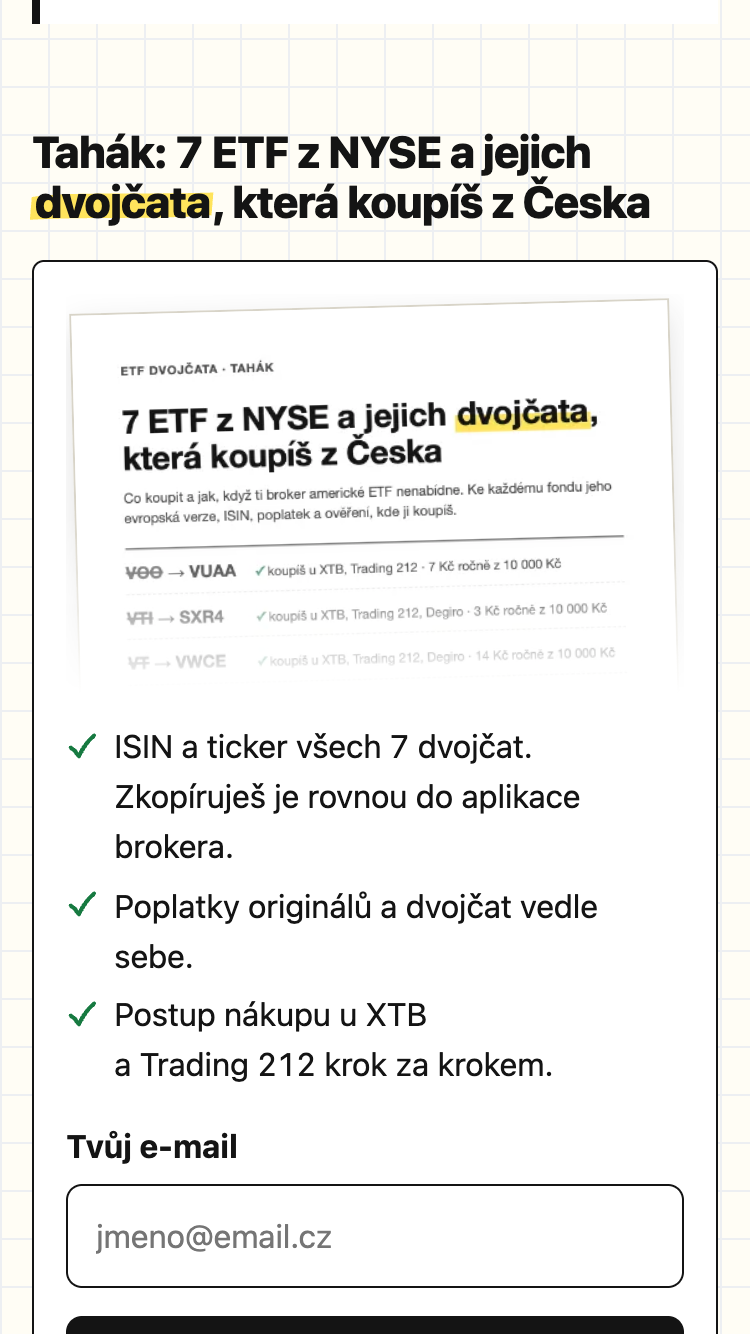
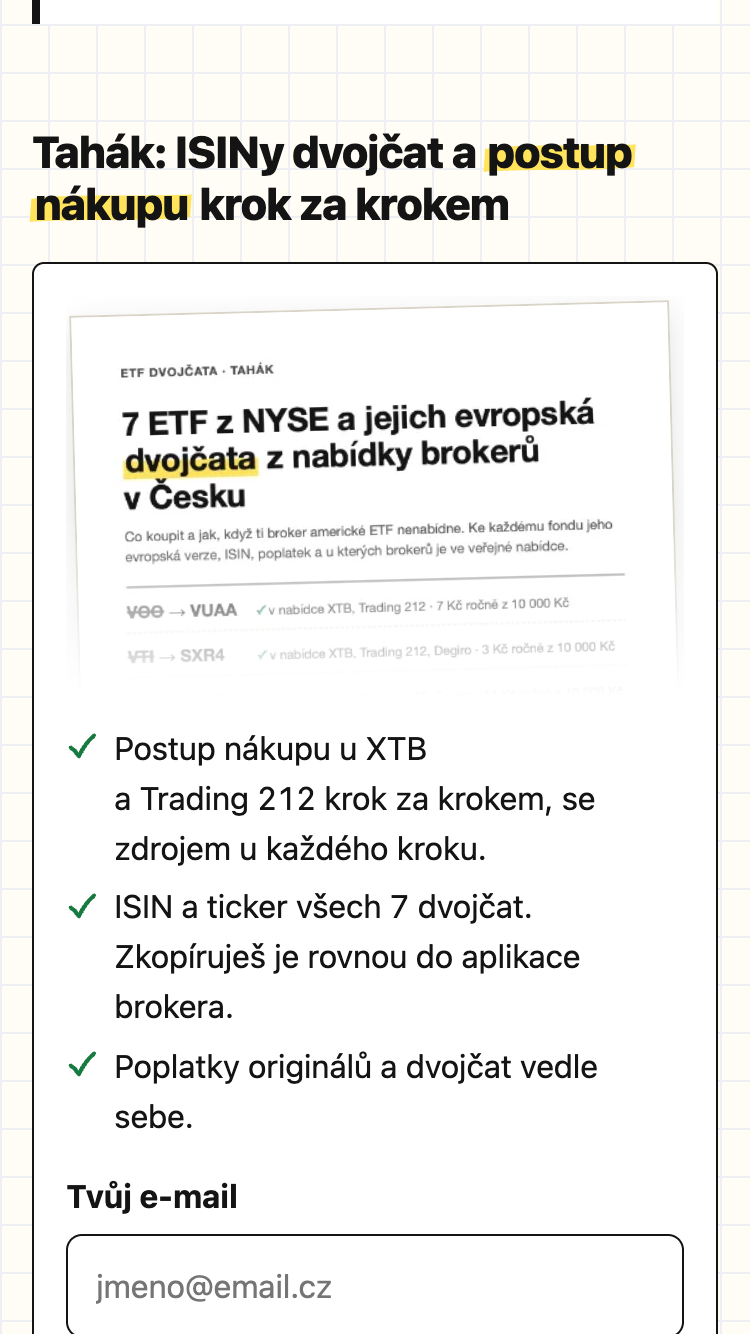
Závěrečná kontrola kola po nezávislé kontrole: testy, Lighthouse, snímky, deník
- přegenerované PDF, obrázky, reklamy (bezpečné zóny OK) a snímky
  „po“ a z WebKitu,
- data 183 bez chyb, stránka, PDF a CSP v pořádku, API 132, databáze
  80, Chrome 132, WebKit 81, JS 19 702 B,
- Lighthouse lokálně (mobil, tři verze úvodu): 100/100/100, SEO 66
  jen kvůli noindex, LCP 1,2 s, CLS 0, 88 KiB,
- docs/nasazeni.md: krok s aktualizací databáze (schema.sql
  a funnel.sql znovu), čísla v README a docs/testovani.md, deník.

diff --git a/ai-log/denik.md b/ai-log/denik.md
@@ -183,3 +183,28 @@ Doplňuje exporty konverzací (`/export`), které nezachytí celý průběh prá
   - Na prvních obrázcích reklam byla šipka a kroužek vedle velkého písma moc tenké. Pootočení lístku v reklamě B navíc zvedalo tickery vpravo nad jejich řádek. Obojí ukázal náhled, opraveno.
   - Bezpečné zóny Stories a Reels se nepodařilo ověřit v oficiální dokumentaci Meta. Návody třetích stran se rozcházejí (dole 250–670 px). AI zvolila 270/450 px a v README nechala kontrolu v náhledu Ads Manageru, místo aby čísla vydávala za ověřená.
   - Popis reklamy B chtěl „modrou propisku“, ale modrá ze vzhledu stránky vypadla. Obrázek drží styl stránky a popis je opravený.
+
+### 2026-10-11 – po nezávislé kontrole: správce údajů, slib taháku, reklama B, brokeři, README, měření
+
+- **Zadání pro AI:** opravit výtky ze dvou nezávislých AI kontrol (ChatGPT a nový chat Claude). Třetí kontrola (Gemini) byla vymyšlená a člověk ji zahodil. Body:
+  - správce údajů na demu,
+  - slib taháku,
+  - první obrazovka,
+  - reklama B,
+  - formulace o brokerech,
+  - README na 5 minut,
+  - UTM a trychtýř od data,
+  - poznámka o veřejném PDF,
+  - SQL pro migraci a pro smazání testovacích dat.
+- **Kontrola výstupu:**
+  - migrace testovaná na schématu z commitu 3ad8636 (stará databáze → nový `schema.sql` a `funnel.sql`),
+  - test hlídá, že text souhlasu na stránce sedí s `SOUHLAS` v `api/_lib.js`,
+  - bezpečné zóny reklam ověřil skript,
+  - odkazy v README a `docs/` ověřil skript,
+  - kontrola formulací grepem (žádné „koupíš u“, „Ověřili jsme“, „doplní správce“, Clientelo na stránce),
+  - výsledky: data 183, API 132, databáze 80, Chrome 132, WebKit 81, Lighthouse 100/100/100.
+- **Kde se AI spletla a jak se na to přišlo:**
+  - **Clientelo jako správce na živém demu, slib „všech 7 dvojčat“, schovaná dvojčata v reklamě B a „koupíš u …“** byly návrhy AI z dřívějších kol. Prošly všemi testy, protože testy hlídaly, že texty sedí s daty, ne že dávají smysl vůči sobě a vůči skutečnosti. Odhalily je až nezávislé kontroly.
+  - **Po změnách textu u brokerů selhal Chrome test**, protože na portu běžel starý lokální server se starými hlavičkami (CSP). Nový se kvůli obsazenému portu nespustil. Nebyla to chyba stránky; před spuštěním testů se teď vždy ukončí starý server.
+  - **Delší nabídka a text na lístku v reklamách nejdřív vytekly z bezpečné zóny.** Zachytila to kontrola ve skriptu, ne oko.
+  - **Navržené „7 nejznámějších“ v reklamě B AI nepoužila:** nejvyšší stupeň neumíme doložit (už dříve zapsáno v `b-zacatek.md`).

diff --git a/docs/testovani.md b/docs/testovani.md
@@ -6,9 +6,9 @@ Skripty a návod jsou ve [scripts/](../scripts/README.md). Všechny vracejí nen
 
 **Automaticky:**
 
-- **Funkce v `api/`** s podvrženou databází a DNS ([test-api.mjs](../scripts/test-api.mjs), 127 kontrol): každá kontrola z cesty kontaktu, MX při chybě a timeoutu DNS, události s ID návštěvy a bez něj, hlavičky, nepřítomnost e-mailu, klíče a IP v logu.
-- **SQL** na skutečném Postgresu v PGlite ([test-db.mjs](../scripts/test-db.mjs), 68 kontrol): práva anonymní role, RLS, limity, duplicity, události bez ID návštěvy, čas na minuty, trychtýř a projekt bez automatických práv Supabase.
-- **Chrome** (headless, 375 px, dotyk, [test-page.mjs](../scripts/test-page.mjs), 127 kontrol): otočení všech lístků, chybové hlášky, odeslání, panel, lišta dole, měření (každá událost dorazí, e-mail nikdy s ID návštěvy, události od odeslání bez něj), CSP, velikost JS do 20 kB, `prefers-reduced-motion`.
+- **Funkce v `api/`** s podvrženou databází a DNS ([test-api.mjs](../scripts/test-api.mjs), 132 kontrol): každá kontrola z cesty kontaktu, verze textu souhlasu, UTM u příchodu, MX při chybě a timeoutu DNS, události s ID návštěvy a bez něj, hlavičky, nepřítomnost e-mailu, klíče a IP v logu.
+- **SQL** na skutečném Postgresu v PGlite ([test-db.mjs](../scripts/test-db.mjs), 80 kontrol): práva anonymní role, RLS, limity, duplicity, verze souhlasu, události bez ID návštěvy, čas na minuty, trychtýř od data, migrace starší databáze, trychtýř a projekt bez automatických práv Supabase.
+- **Chrome** (headless, 375 px, dotyk, [test-page.mjs](../scripts/test-page.mjs), 132 kontrol): text souhlasu proti `SOUHLAS` v `api/_lib.js`, řádek o taháku na první obrazovce, otočení všech lístků, chybové hlášky, odeslání, panel, lišta dole, měření (každá událost dorazí, e-mail nikdy s ID návštěvy, události od odeslání bez něj), CSP, velikost JS do 20 kB, `prefers-reduced-motion`.
 - **WebKit, tedy engine Safari** (Playwright, emulace iPhonu 13, iPhonu SE 3. generace a iPhonu SE 1. generace s šířkou 320 px, [test-webkit.mjs](../scripts/test-webkit.mjs), 81 kontrol): panel a formuláře na místě s otevřenou klávesnicí. Emulátor softwarovou klávesnici nemá, proto ji test simuluje dvěma způsoby:
   - jako iOS: layout viewport zůstane, zmenší se jen `visualViewport` a viditelná oblast se posune k poli,
   - jako Android: zmenší se celé okno.

diff --git a/docs/nasazeni.md b/docs/nasazeni.md
@@ -24,6 +24,12 @@
   - `ANTISPAM_SECRET`: náhodný řetězec aspoň 32 znaků (`openssl rand -hex 32`). Podepisuje token formuláře a hashuje IP pro limit pokusů, bez něj formulář vrátí chybu.
 - [x] **Deploy.** Když proměnné přidáš až po prvním nasazení, pusť **Redeploy**, jinak je funkce neuvidí.
 
+**2b. Aktualizace databáze po kole 11. 10. 2026 (verze souhlasu, UTM, trychtýř od data)**
+
+- [ ] SQL Editor → vlož celý aktuální [supabase/schema.sql](../supabase/schema.sql) → **Run** (nic nesmaže: doplní sloupec `leads.souhlas_verze`, vymění funkci `uloz_kontakt` a limit detailu událostí na 80 znaků).
+- [ ] SQL Editor → vlož celý aktuální [supabase/funnel.sql](../supabase/funnel.sql) → **Run** (přidá `analytika.trychtyr_od` a pohled `trychtyr` postaví nad ní).
+- [ ] Kontrola: `select column_name from information_schema.columns where table_name = 'leads';` obsahuje `souhlas_verze` a `select * from analytika.trychtyr_od(now() - interval '1 day');` vrátí 12 řádků.
+
 **3. Kontrola na živé adrese**
 
 - [x] Projekt dostal adresu `https://etf-dvojcata-demo.vercel.app`. Jinak změň kanonickou adresu, `og:url` a `og:image` v hlavičce `public/index.html` (hledej `etf-dvojcata-demo`).
